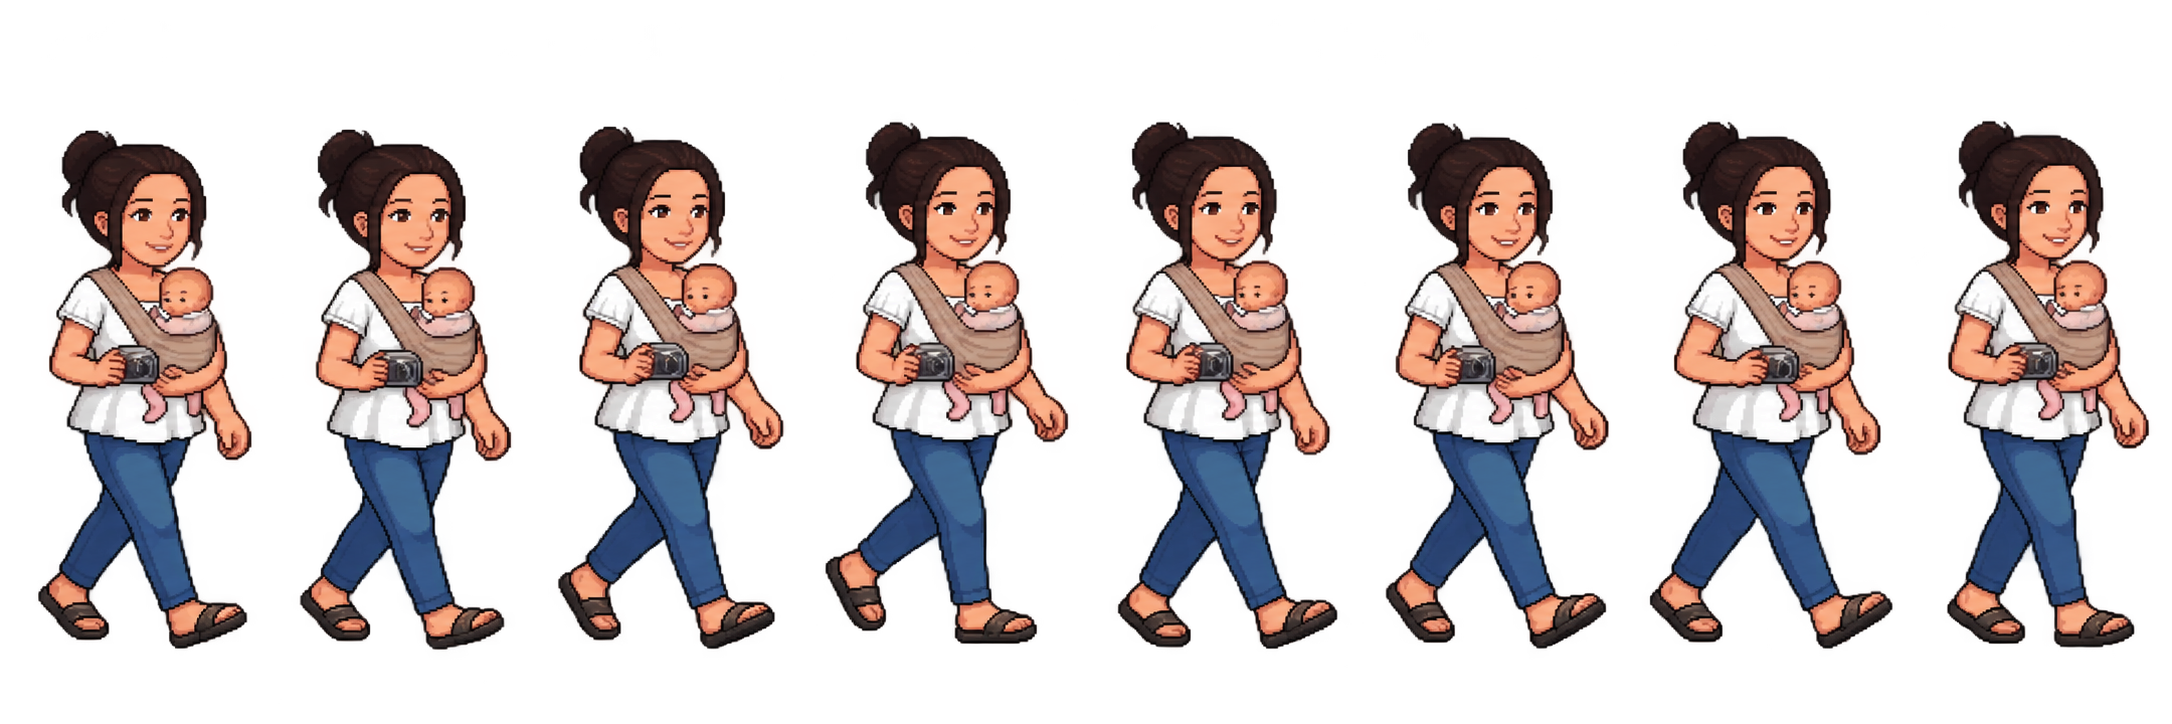
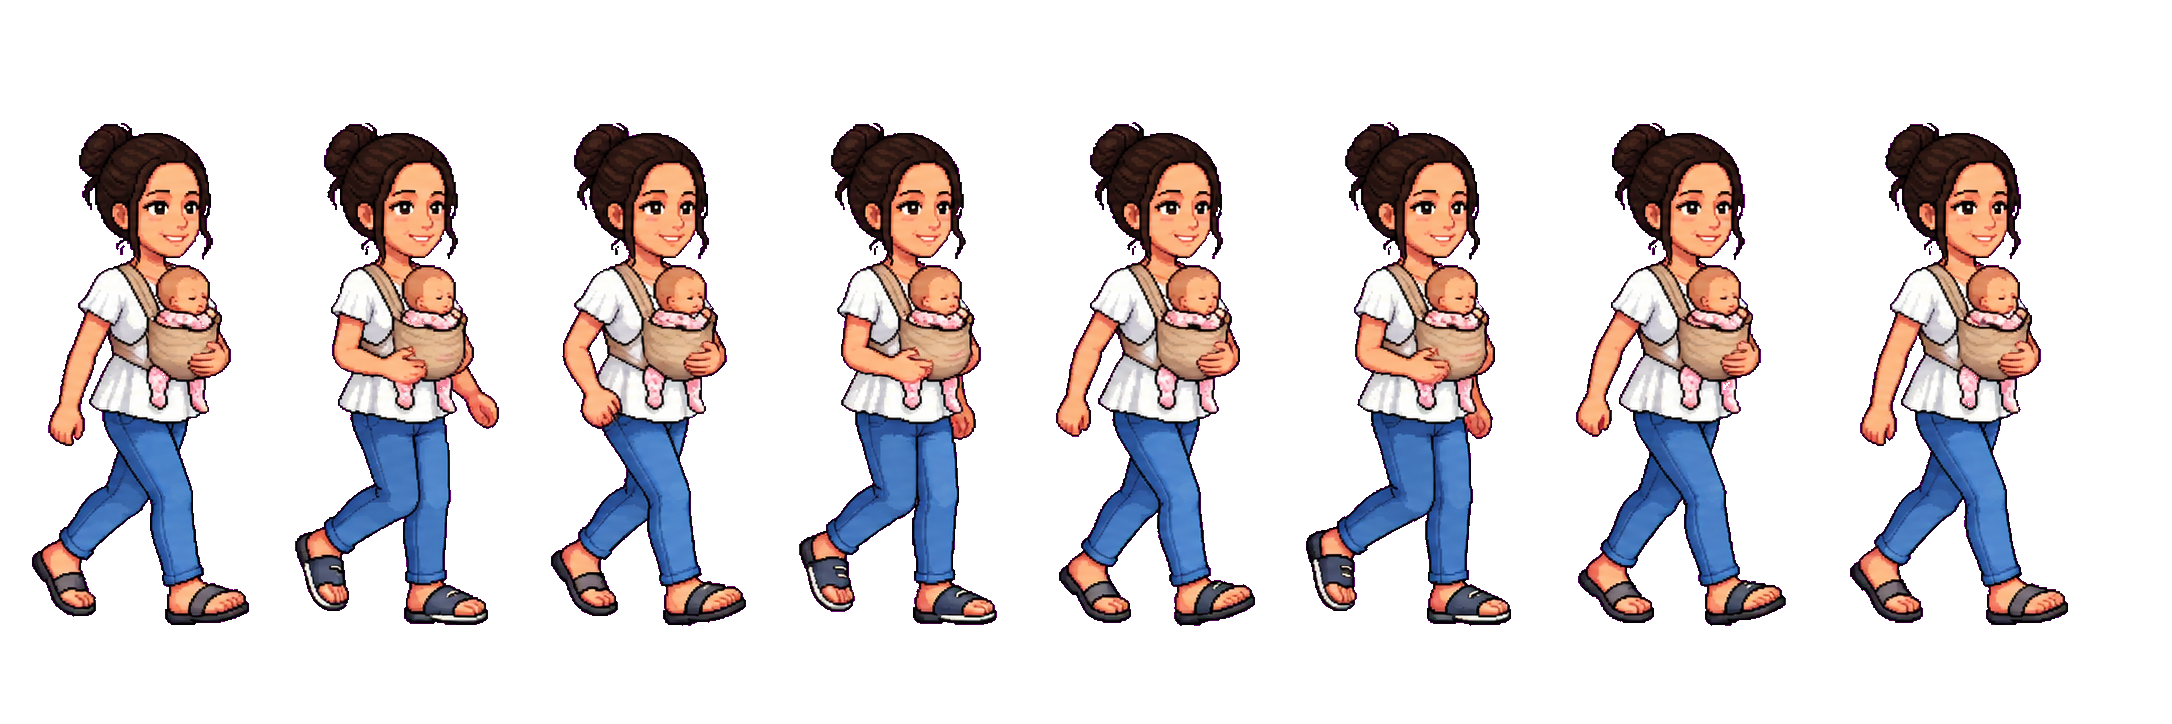
Mamá y Papá renovados (caminar, interactuar, abrazo) y portada de Reconquista
- Sprites nuevos de Mamá y Papá: caminata de 8 cuadros, 4 poses de interactuar y abrazo.
- Reconquista: portada con la casa; la familia recibe a Vicente con un abrazo y después saluda.

diff --git a/src/scenes/CiudadScene.js b/src/scenes/CiudadScene.js
@@ -31,11 +31,11 @@ const QUIZ_POS = { x: 900, y: 360 };
 // (Rosario ya trae el Monumento a la Bandera en su portada.)
 const MONUMENTOS = {};
 const HOGAR = {
-  casaX: 700,
+  casaX: 800, // la puerta de la casa en la portada de Reconquista
   familia: [
-    { id: "mama", x: 560, dice: "¡Vicente! ¡Llegaste a casa!" },
-    { id: "papa", x: 850, dice: "¡Qué viajero! Contanos todo lo que viste." },
-    { id: "anita", x: 980, dice: "¡Yo también quiero viajar! ¿Me llevás?" },
+    { id: "mama", x: 700, dice: "¡Vicente! ¡Llegaste a casa!" },
+    { id: "papa", x: 880, dice: "¡Qué viajero! Contanos todo lo que viste." },
+    { id: "anita", x: 1020, dice: "¡Yo también quiero viajar! ¿Me llevás?" },
   ],
   vicente: "¡Sí! ¡Vamos juntos hasta la Triple Frontera!",
 };
@@ -160,7 +160,7 @@ export class CiudadScene extends Phaser.Scene {
     // Con la ilustración del barrio de fondo, la casa ya está dibujada; si no, una provisoria.
     if (!this.fondoIlustrado)
       this.add
-        .image(HOGAR.casaX, GROUND_Y + 4, houseTexture(this))
+        .image(HOGAR.casaX, this.pisoY + 4, houseTexture(this))
         .setOrigin(0.5, 1)
         .setDepth(2);
     const yaViaja = this.progreso.companeros.includes("anita");
@@ -168,15 +168,23 @@ export class CiudadScene extends Phaser.Scene {
       .filter((f) => !(yaViaja && f.id === "anita"))
       .map((f) => ({
         ...f,
-        c: new Character(this, f.x, GROUND_Y, f.id, { pxPerCm: PX_PER_CM.viaje }).face("left").setDepth(8),
+        c: new Character(this, f.x, this.pisoY, f.id, { pxPerCm: PX_PER_CM.viaje }).face("left").setDepth(8),
       }));
 
+    // Cada familiar recibe a Vicente con los brazos abiertos (abrazo) y después lo saluda.
+    const recibir = (c) => {
+      const saludar = () => c.has("saludar") && c.loop("saludar");
+      if (c.has("abrazo")) c.perform("abrazo").then(saludar);
+      else saludar();
+    };
     if (yaViaja) {
+      familia.forEach((f) => recibir(f.c));
       await this.say(familia[0].c, "¡Volvieron! ¡Qué lindo verlos!", 2200);
+      familia.forEach((f) => f.c.idle());
       return;
     }
     for (const f of familia) {
-      if (f.c.has("saludar")) f.c.loop("saludar");
+      recibir(f.c);
       await this.say(f.c, f.dice, 2400);
       f.c.idle();
     }
